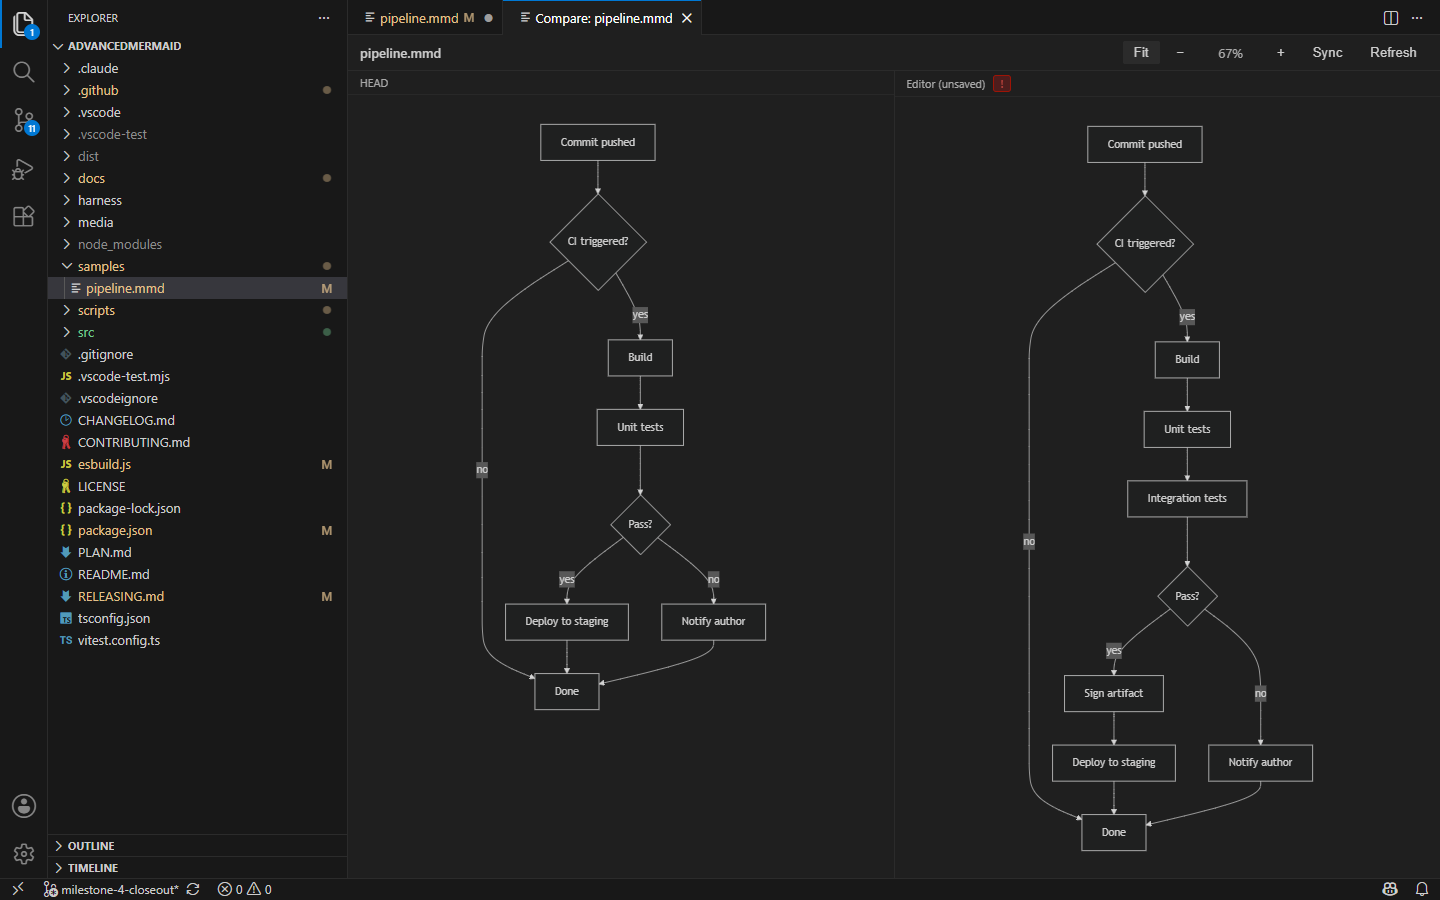
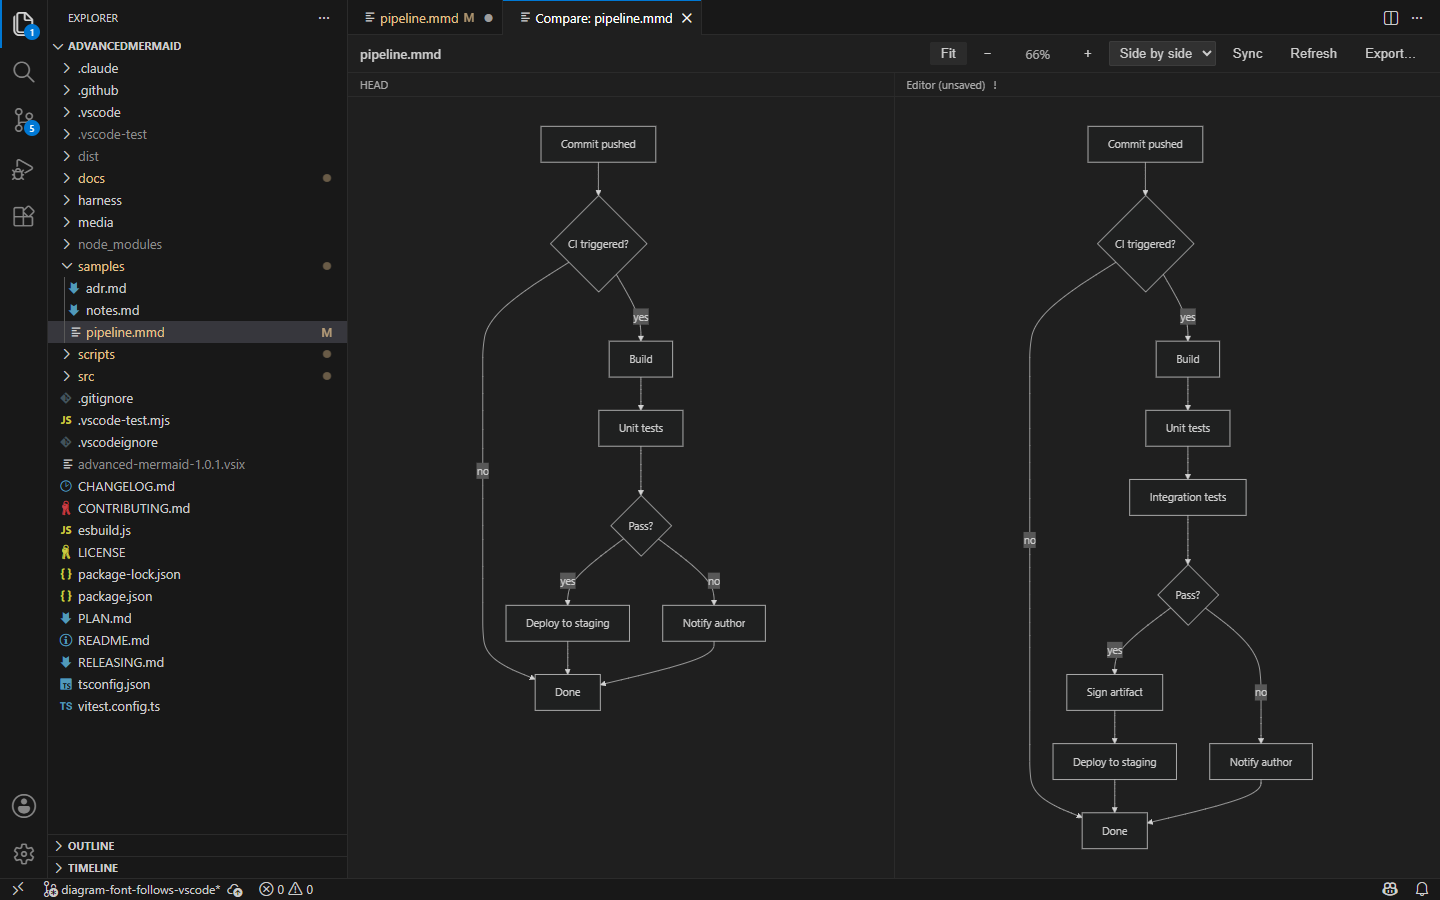
Draw diagrams in the editor's font
Diagrams rendered in mermaid's default Trebuchet MS while the panel
around them used the editor's own font — two typefaces a few pixels
apart, in every mode, since v1.0.0. Nobody had told mermaid what font to
use, so it picked its own.

The font is resolved with getComputedStyle before mermaid is told about
it, rather than passed through as `var(--vscode-font-family)`. The
variable satisfies the DOM and then breaks on export: the composed SVG is
written to a file with nothing to resolve it against, and the text comes
out as a default serif. Both halves are now pinned by the browser
harness — that the render matches the panel font, and that the exported
SVG carries real font names.

Font family only. Mermaid's 16px label size is left alone: matching the
editor's 13px would relayout every diagram to fix something nobody
reported.

README screenshots regenerated from a real VS Code, since every diagram
in them changed.

Claude-Session: https://claude.ai/code/session_018hawQiodPRBMYiSfscMCKq

diff --git a/src/webview/main.ts b/src/webview/main.ts
@@ -40,10 +40,23 @@ const isDark =
   document.body.classList.contains('vscode-dark') ||
   document.body.classList.contains('vscode-high-contrast');
 
+/**
+ * The editor's own UI font, **resolved** rather than passed through as `var(--vscode-font-family)`.
+ *
+ * Mermaid drops whatever this is into the stylesheet it injects, which a CSS variable would satisfy
+ * on screen — and then break on export, where the SVG is written to a file with nothing to resolve
+ * the variable against and the text falls back to a default serif. Reading the computed value here
+ * hands mermaid real font names that survive leaving the webview.
+ */
+const uiFont = getComputedStyle(document.body).fontFamily;
+
 mermaid.initialize({
   startOnLoad: false,
   theme: isDark ? 'dark' : 'default',
   securityLevel: 'strict',
+  // Without this, diagrams render in mermaid's default Trebuchet MS while the panel around them
+  // uses the editor's font — two typefaces a few pixels apart.
+  ...(uiFont ? { fontFamily: uiFont } : {}),
 });
 
 // --- View state: one per pane, kept identical while Sync is on ---

diff --git a/CHANGELOG.md b/CHANGELOG.md
@@ -53,6 +53,12 @@ and this project adheres to [Semantic Versioning](https://semver.org/spec/v2.0.0
 
 ### Fixed
 
+- **Diagrams are drawn in your editor's font.** They had always rendered in mermaid's default
+  Trebuchet MS, a few pixels from a panel drawn in the editor's own font — two typefaces side by
+  side in one view. The font is resolved before mermaid is told about it rather than handed over as
+  `var(--vscode-font-family)`: the variable would look right on screen and then break on export,
+  where an SVG written to a file has nothing to resolve it against and the text falls back to a
+  serif.
 - **Comparing too soon after opening a window could report "not a git repository"** for a file
   that is plainly tracked. The built-in Git extension discovers repositories asynchronously and
   answers "none" until it has finished looking; that answer is now only believed once it says the
